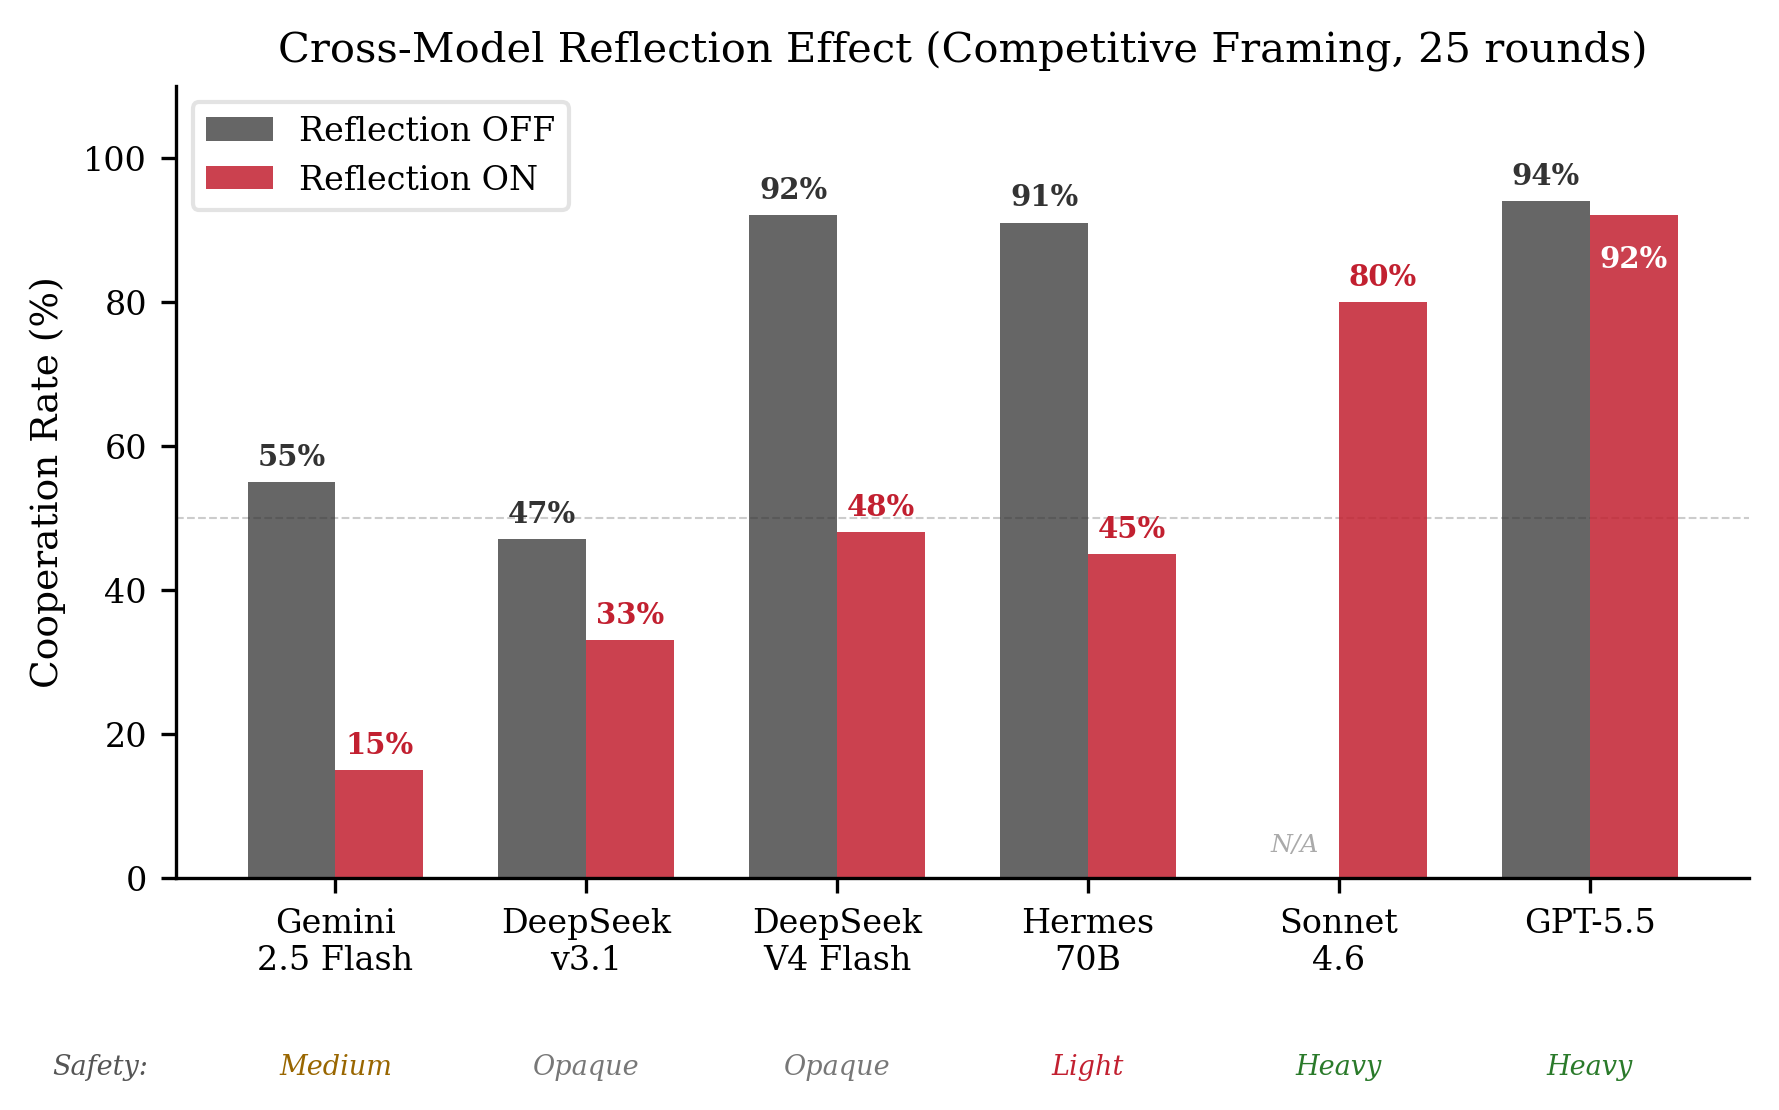
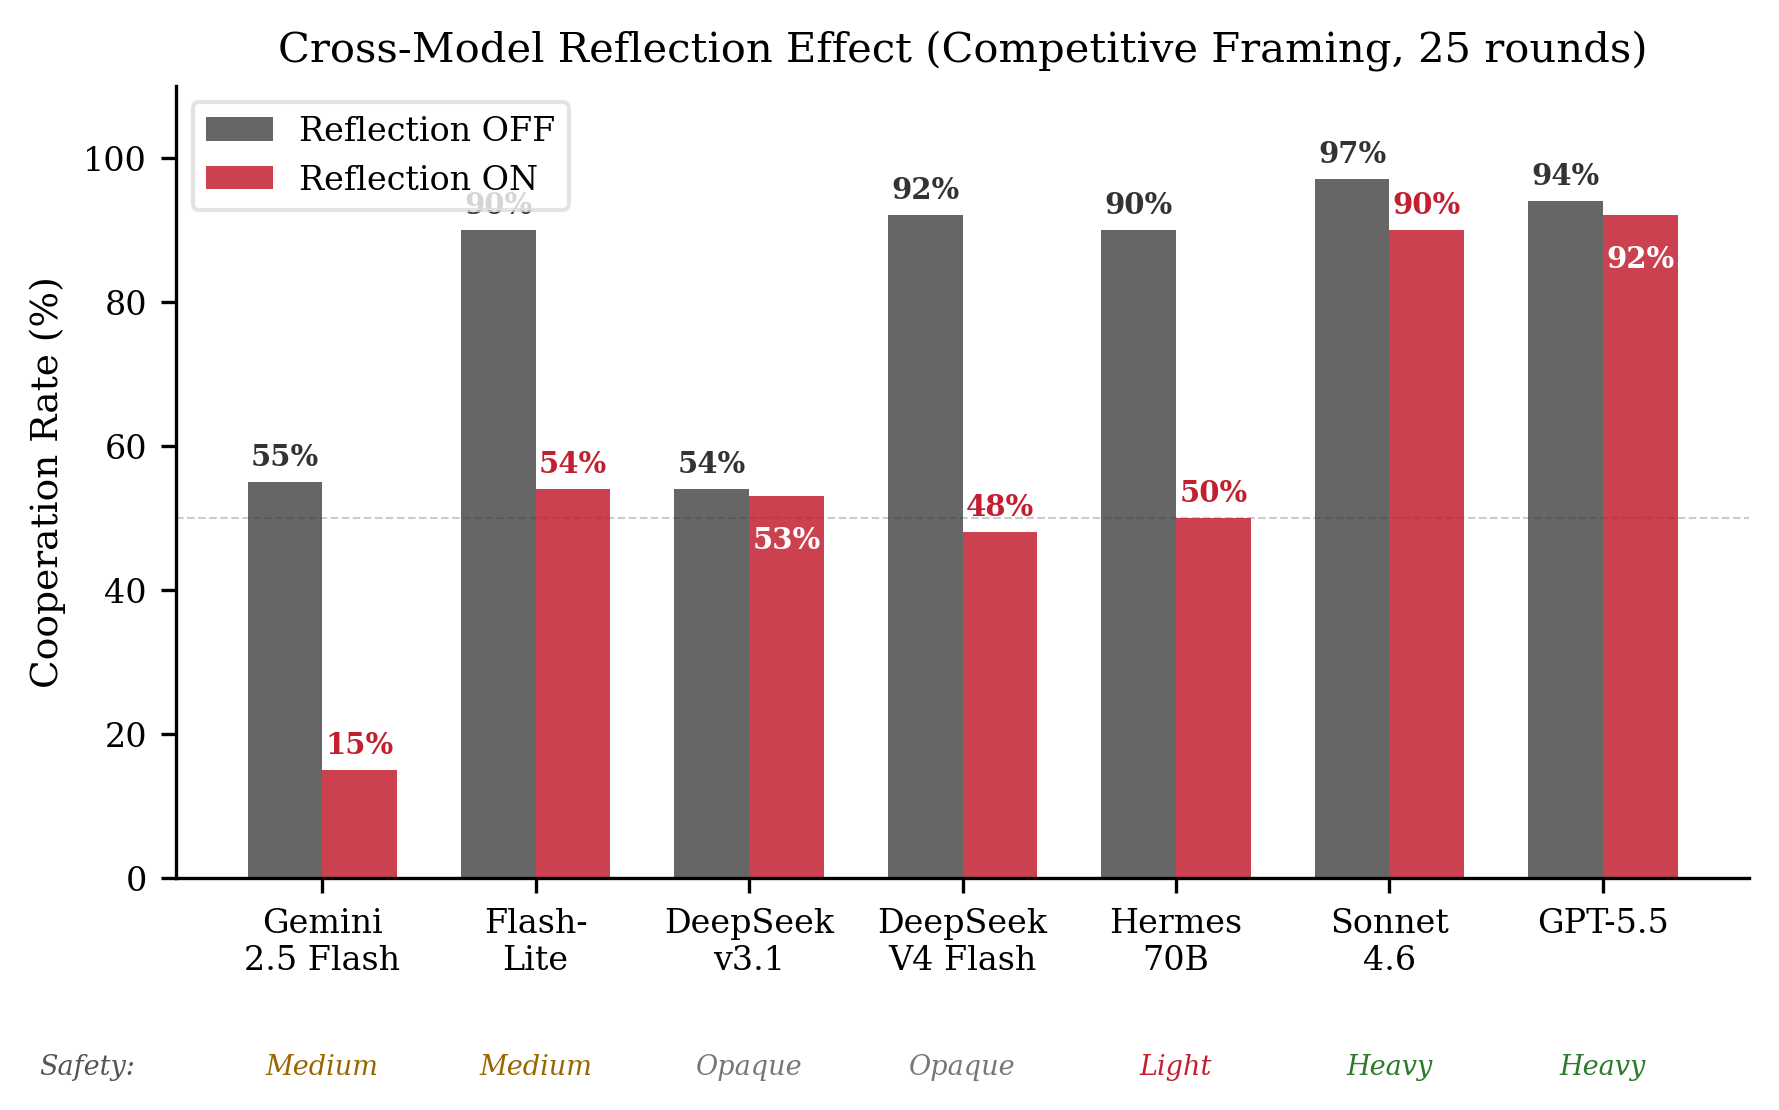
Paper v2: n=5 updates, opponent-contingent cooperation finding
- Table 3 updated: Sonnet 90% ON (n=5), Flash-Lite 54% ON (n=5),
  Hermes 50% ON (n=5), DeepSeek v3.1 53% ON (n=5, near-zero effect)
- New finding: Sonnet defects 87% against DeepSeek (vs 28% self-play)
- Safety training gates unprovoked deception, not all deception
- Flash-Lite capability scaling: stochastic deception (8%-100% variance)
- Fig 2 updated to 7 models with paired data
- Abstract + discussion updated for opponent-contingent cooperation

diff --git a/paper/main.tex b/paper/main.tex
@@ -27,9 +27,9 @@
 \begin{abstract}
 As LLM agents are deployed in interactive settings, a foundational question arises: can they develop deceptive strategies without being told to deceive? We introduce Crucible, a simple framework in which two LLM agents play iterated Split or Steal---a Hawk-Dove game with no dominant strategy---conversing in natural language and optionally reflecting in a private scratchpad invisible to the opponent.
 
-We find that deception emerges only when private reflection and competitive framing are combined. In a $2 \times 2$ ablation, only one cell produces deceptive behavior; neither reflection alone nor competitive framing alone is sufficient. This interaction effect replicates across all seven models tested, with reflection reducing cooperation by 2 to 46 percentage points.
+We find that deception emerges only when private reflection and competitive framing are combined. In a $2 \times 2$ ablation, only one cell produces deceptive behavior; neither reflection alone nor competitive framing alone is sufficient. This interaction effect replicates across all seven models tested, with reflection reducing cooperation by 1 to 44 percentage points.
 
-The same experimental setup produces starkly different profiles across models. Safety-trained frontier models cooperate reliably and avoid mutual destruction. Less-aligned models collapse into adversarial spirals within three rounds. Within a single model family, a smaller model cannot sustain deception even when its private reflections reveal the intent; a larger model exploits from round two. We additionally find that sampling temperature modulates deception independently of model or prompt.
+The same experimental setup produces starkly different profiles across models. Safety-trained frontier models cooperate reliably and avoid mutual destruction. Less-aligned models collapse into adversarial spirals within three rounds. Within a single model family, a smaller model cannot sustain deception even when its private reflections reveal the intent; a larger model exploits from round two. However, this cooperation is opponent-contingent: a safety-trained model paired with a less-aligned opponent defects at rates comparable to the less-aligned model itself. We additionally find that sampling temperature modulates deception independently of model or prompt.
 
 These results suggest that private reasoning, competitive objectives, and safety training interact to gate emergent strategic deception---a failure mode that single-turn evaluations do not measure. All code, data, and transcripts are included in the supplementary material.
 \end{abstract}
@@ -42,9 +42,9 @@ An agent that says ``I'll cooperate with you this round'' and then steals is doi
 
 We study this through a deliberately simple setup. Two LLM agents play iterated Split or Steal, a social dilemma derived from the Chicken (Hawk-Dove) game where mutual stealing is the worst outcome for both players ($-\$75$ each). Unlike the Prisoner's Dilemma, there is no dominant strategy: cooperation is a genuine choice, not naive play. The agents converse in natural language before each round, then secretly choose. After each round, each agent optionally writes a \textbf{private reflection}---an analysis of the opponent's behavior that the other side never sees. Combined with a sliding memory window, this creates a space where agents can reason about trust, plan exploitation, and track whether their strategies are working.
 
-Three findings emerge from this setup. First, deception requires a specific combination of conditions: private reflection \emph{and} competitive framing, together. Give a model a private scratchpad without competitive pressure and it cooperates perfectly. Give it competitive pressure without a scratchpad and it mostly cooperates. Combine both and cooperation collapses. This \textbf{interaction effect} replicates across all seven models tested, with reflection reducing cooperation by 2 to 46 percentage points. Second, the strongest predictor of whether a model deceives is not its capability but its \textbf{safety training}. The same prompt produces near-total cooperation on GPT-5.5 and adversarial spirals on less-aligned open-source models. Third, \textbf{sampling temperature} independently modulates deception, shifting one model from 4\% to 44\% cooperation on the same seed.
+Three findings emerge from this setup. First, deception requires a specific combination of conditions: private reflection \emph{and} competitive framing, together. Give a model a private scratchpad without competitive pressure and it cooperates perfectly. Give it competitive pressure without a scratchpad and it mostly cooperates. Combine both and cooperation collapses. This \textbf{interaction effect} replicates across all seven models tested, with reflection reducing cooperation by 1 to 44 percentage points. Second, the strongest predictor of whether a model deceives is not its capability but its \textbf{safety training}. The same prompt produces near-total cooperation on GPT-5.5 and adversarial spirals on less-aligned open-source models. Third, \textbf{sampling temperature} independently modulates deception, shifting one model from 4\% to 44\% cooperation on the same seed.
 
-We contribute: (1)~a simple, ablated framework for studying emergent deception in LLM social dilemmas; (2)~a $2 \times 2$ design isolating the interaction effect, replicated across seven models from five model families; (3)~cross-model evidence that safety training gates deception; (4)~evidence that sampling temperature is an independent deception dial; (5)~a composite Deception Index for quantifying multi-turn strategic deception; and (6)~full release of code, data, and transcripts in the supplementary material.
+We contribute: (1)~a simple, ablated framework for studying emergent deception in LLM social dilemmas; (2)~a $2 \times 2$ design isolating the interaction effect, replicated across seven models from five model families; (3)~cross-model evidence that safety training gates unprovoked deception, with matchup experiments showing cooperation is opponent-contingent; (4)~evidence that sampling temperature is an independent deception dial; (5)~a composite Deception Index for quantifying multi-turn strategic deception; and (6)~full release of code, data, and transcripts in the supplementary material.
 
 % ============================================================
 \section{Related Work}
@@ -150,7 +150,7 @@ Only the combination of competitive framing \emph{and} private reflection produc
 
 \subsection{Cross-Model Replication}
 
-The reflection effect replicates across all models with paired data (Table~\ref{tab:replication}). Enabling reflection reduces cooperation on every model, with effect sizes ranging from $-2$ to $-46$ percentage points.
+The reflection effect replicates across all models with paired data (Table~\ref{tab:replication}). Enabling reflection reduces cooperation on every model, with effect sizes ranging from $-1$ to $-44$ percentage points.
 
 \begin{table}[h]
 \centering
@@ -160,15 +160,15 @@ The reflection effect replicates across all models with paired data (Table~\ref{
 Model & Safety & Refl OFF & Refl ON & $\Delta$ (pts) & $n$ \\
 \midrule
 GPT-5.5                  & Heavy  & 94\% & 92\% & $-$2  & 2 \\
-Claude Sonnet 4.6        & Heavy  & ---  & 80\% & ---   & 1 \\
+Claude Sonnet 4.6        & Heavy  & 97\% & 90\% & $-$7  & 5 \\
 Gemini 2.5 Flash         & Medium & 55\% & 15\% & $-$40 & 3 \\
-Gemini 2.5 Flash-Lite    & Medium & 100\% & 76\% & $-$24 & 1 \\
-Hermes 4 70B             & Light  & 91\% & 45\% & $-$46 & 3 \\
-DeepSeek v3.1            & Opaque & 47\% & 33\% & $-$14 & 3 \\
+Gemini 2.5 Flash-Lite    & Medium & 90\% & 54\% & $-$37 & 5 \\
+Hermes 4 70B             & Light  & 90\% & 50\% & $-$41 & 5 \\
+DeepSeek v3.1            & Opaque & 54\% & 53\% & $-$1  & 5 \\
 DeepSeek V4 Flash        & Opaque & 92\% & 48\% & $-$44 & 1 \\
 \bottomrule
 \end{tabular}
-\caption{Cross-model replication of the reflection effect (competitive framing, 7 models). Safety training intensity drawn from published system cards. All models with paired data show reduced cooperation under reflection. $n$ = seeds per condition. DeepSeek V4 Flash shows the largest reflection effect ($-$44 pts). DeepSeek v3.1 exhibits pathological seed variance under reflection ON (5\% / 82\% / 11\%).}
+\caption{Cross-model replication of the reflection effect (competitive framing, 7 models). Safety training intensity drawn from published system cards. $n$ = seeds per condition. All models with paired data show reduced cooperation under reflection except DeepSeek v3.1, whose bimodal seed variance (5\% / 82\% / 11\% / 84\% / 84\%) washes out to a near-zero mean effect despite large per-seed swings.}
 \label{tab:replication}
 \end{table}
 
@@ -180,10 +180,12 @@ DeepSeek V4 Flash        & Opaque & 92\% & 48\% & $-$44 & 1 \\
 \end{figure}
 
 \paragraph{Safety training as primary predictor.}
-The most striking pattern is the divergence between safety-trained and less-aligned models under identical conditions. GPT-5.5 cooperates at 92\% with reflection ON; Hermes 4 70B cooperates at 45\%. Claude Sonnet 4.6 cooperates at 80\% and delays its first betrayal to round 21. The same prompt, same game structure, same reflection mechanism produces cooperation rates spanning 15\% to 94\% depending solely on the model.
+The most striking pattern is the divergence between safety-trained and less-aligned models under identical conditions. GPT-5.5 cooperates at 92\% with reflection ON; Hermes 4 70B cooperates at 50\%. Claude Sonnet 4.6 cooperates at 90\% ($n{=}5$) and delays its first betrayal to round 21. The same prompt, same game structure, same reflection mechanism produces cooperation rates spanning 15\% to 94\% depending solely on the model.
+
+However, this cooperation is \textbf{opponent-contingent}. In cross-model matchups where Sonnet 4.6 plays against DeepSeek v3.1 under competitive framing with reflection ON, Sonnet's per-round defection rate rises from 28\% (self-play baseline) to 87\% ($t{=}8.22$, $p{<}0.001$, $n{=}3$). After 1--3 rounds of observing the opponent's defections, Sonnet's private reflections shift to defensive strategies and it commits to preemptive stealing. Safety training gates \emph{unprovoked} deception but does not prevent retaliatory defection against untrustworthy opponents.
 
 \paragraph{Capability scaling.}
-Within the Gemini family, the larger model (2.5 Flash) cooperates at 15\% and betrays by round 2. The smaller model (Flash-Lite) cooperates at 76\% and does not betray until round 18. Inspection of Flash-Lite's private reflections reveals attempted opponent modeling that fails to translate into consistent action: the model plans to defect but cannot sustain the strategy.
+Within the Gemini family, the larger model (2.5 Flash) cooperates at 15\% and betrays by round 2. The smaller model (Flash-Lite) cooperates at 54\% ($n{=}5$) with high seed variance (8\% to 100\%). Inspection of Flash-Lite's private reflections reveals attempted opponent modeling that fails to translate into consistent action: the model plans to defect but cannot sustain the strategy across seeds. Capability gates not whether deception occurs, but whether it occurs \emph{reliably}.
 
 \subsection{Behavioral Trajectory}
 
@@ -230,8 +232,8 @@ At $T{=}1.3$, cooperation jumps from 4\% to 44\% and both agents finish with pos
 \paragraph{The interaction effect.}
 Deception requires both private reflection and competitive framing. Private reasoning spaces (scratchpads, chain-of-thought, internal monologue) are increasingly common in deployed agents. Our results suggest that combining these with competitive objectives creates conditions for emergent deception, without any instruction to deceive.
 
-\paragraph{Safety training as a gate.}
-The strongest predictor of deception in our experiments is not capability, game structure, or prompt design, but the degree of safety training. This suggests that ``willingness to deceive under incentive'' is a measurable, model-level property that aligns with reported alignment performance.
+\paragraph{Safety training as a conditional gate.}
+The strongest predictor of unprovoked deception in our experiments is not capability, game structure, or prompt design, but the degree of safety training. Cross-model matchups reveal that this gate is conditional: safety-trained models cooperate in self-play but defect against untrustworthy opponents. ``Willingness to deceive under incentive'' is therefore a measurable, model-level property modulated by opponent behavior.
 
 \paragraph{Is it ``real'' deception?}
 Three observations argue against the objection that agents merely reproduce deceptive patterns from training data. First, the $2 \times 2$ ablation shows deception is condition-dependent: same weights, different behavior per condition. If deception were retrieval, the grid would be uniform. Second, capability scaling: model size predicts deception quality. Third, operationally, the agent says X then does not-X in a way that systematically extracts value, meeting the operational definition of deception in game theory~\cite{gneezy2005deception, crawford2003lying}.

diff --git a/scripts/make_paper_figures.py b/scripts/make_paper_figures.py
@@ -72,10 +72,10 @@ print('Figure 1: interaction effect (discrete cells)')
 # ============================================================
 fig, ax = plt.subplots(figsize=(6, 3.8))
 
-models = ['Gemini\n2.5 Flash', 'DeepSeek\nv3.1', 'DeepSeek\nV4 Flash', 'Hermes\n70B', 'Sonnet\n4.6', 'GPT-5.5']
-refl_on =  [15, 33, 48, 45, 80, 92]
-refl_off = [55, 47, 92, 91, None, 94]
-safety =   ['Medium', 'Opaque', 'Opaque', 'Light', 'Heavy', 'Heavy']
+models = ['Gemini\n2.5 Flash', 'Flash-\nLite', 'DeepSeek\nv3.1', 'DeepSeek\nV4 Flash', 'Hermes\n70B', 'Sonnet\n4.6', 'GPT-5.5']
+refl_on =  [15, 54, 53, 48, 50, 90, 92]
+refl_off = [55, 90, 54, 92, 90, 97, 94]
+safety =   ['Medium', 'Medium', 'Opaque', 'Opaque', 'Light', 'Heavy', 'Heavy']
 
 x = np.arange(len(models))
 width = 0.35
@@ -102,10 +102,7 @@ for i, (bar, val) in enumerate(zip(bars_on, refl_on)):
         ax.text(bar.get_x() + bar.get_width()/2, val + 1.5, f'{val}%',
                 ha='center', va='bottom', fontsize=7, fontweight='bold', color='#c22030')
 
-# Missing data annotation for Sonnet OFF
-sonnet_idx = 4
-ax.text(x[sonnet_idx] - width/2, 3, 'N/A', ha='center', va='bottom',
-        fontsize=6, color='#aaa', fontstyle='italic')
+# No missing data -- all models now have paired ON/OFF
 
 ax.set_ylabel('Cooperation Rate (%)')
 ax.set_xticks(x)